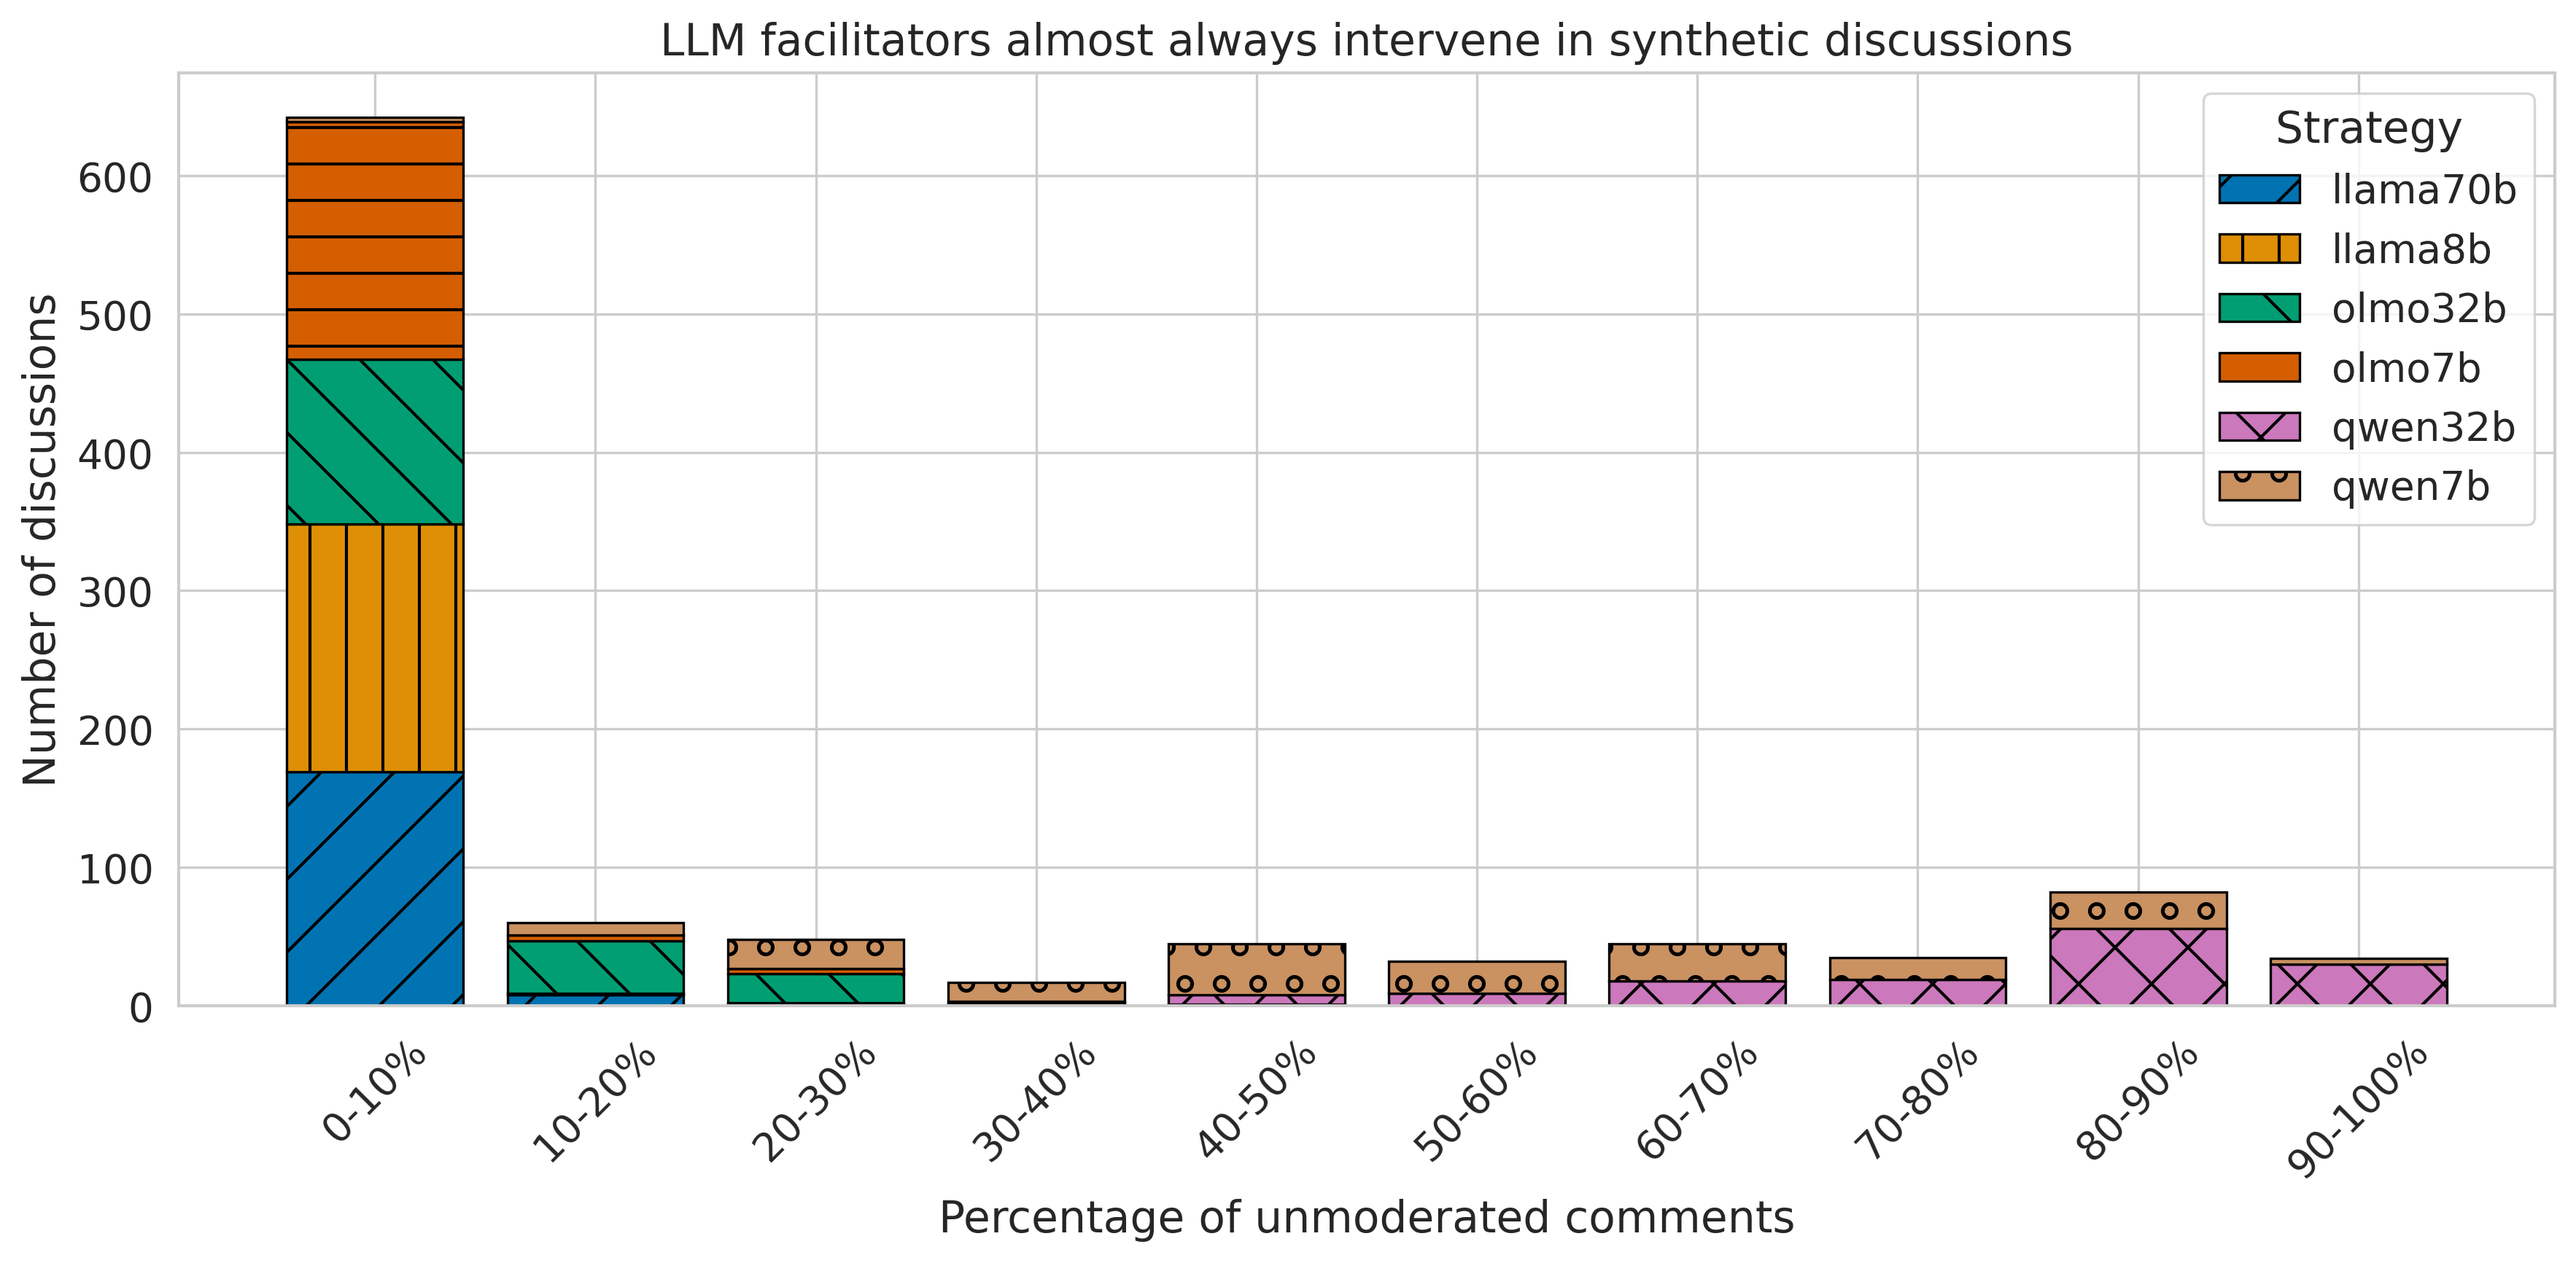
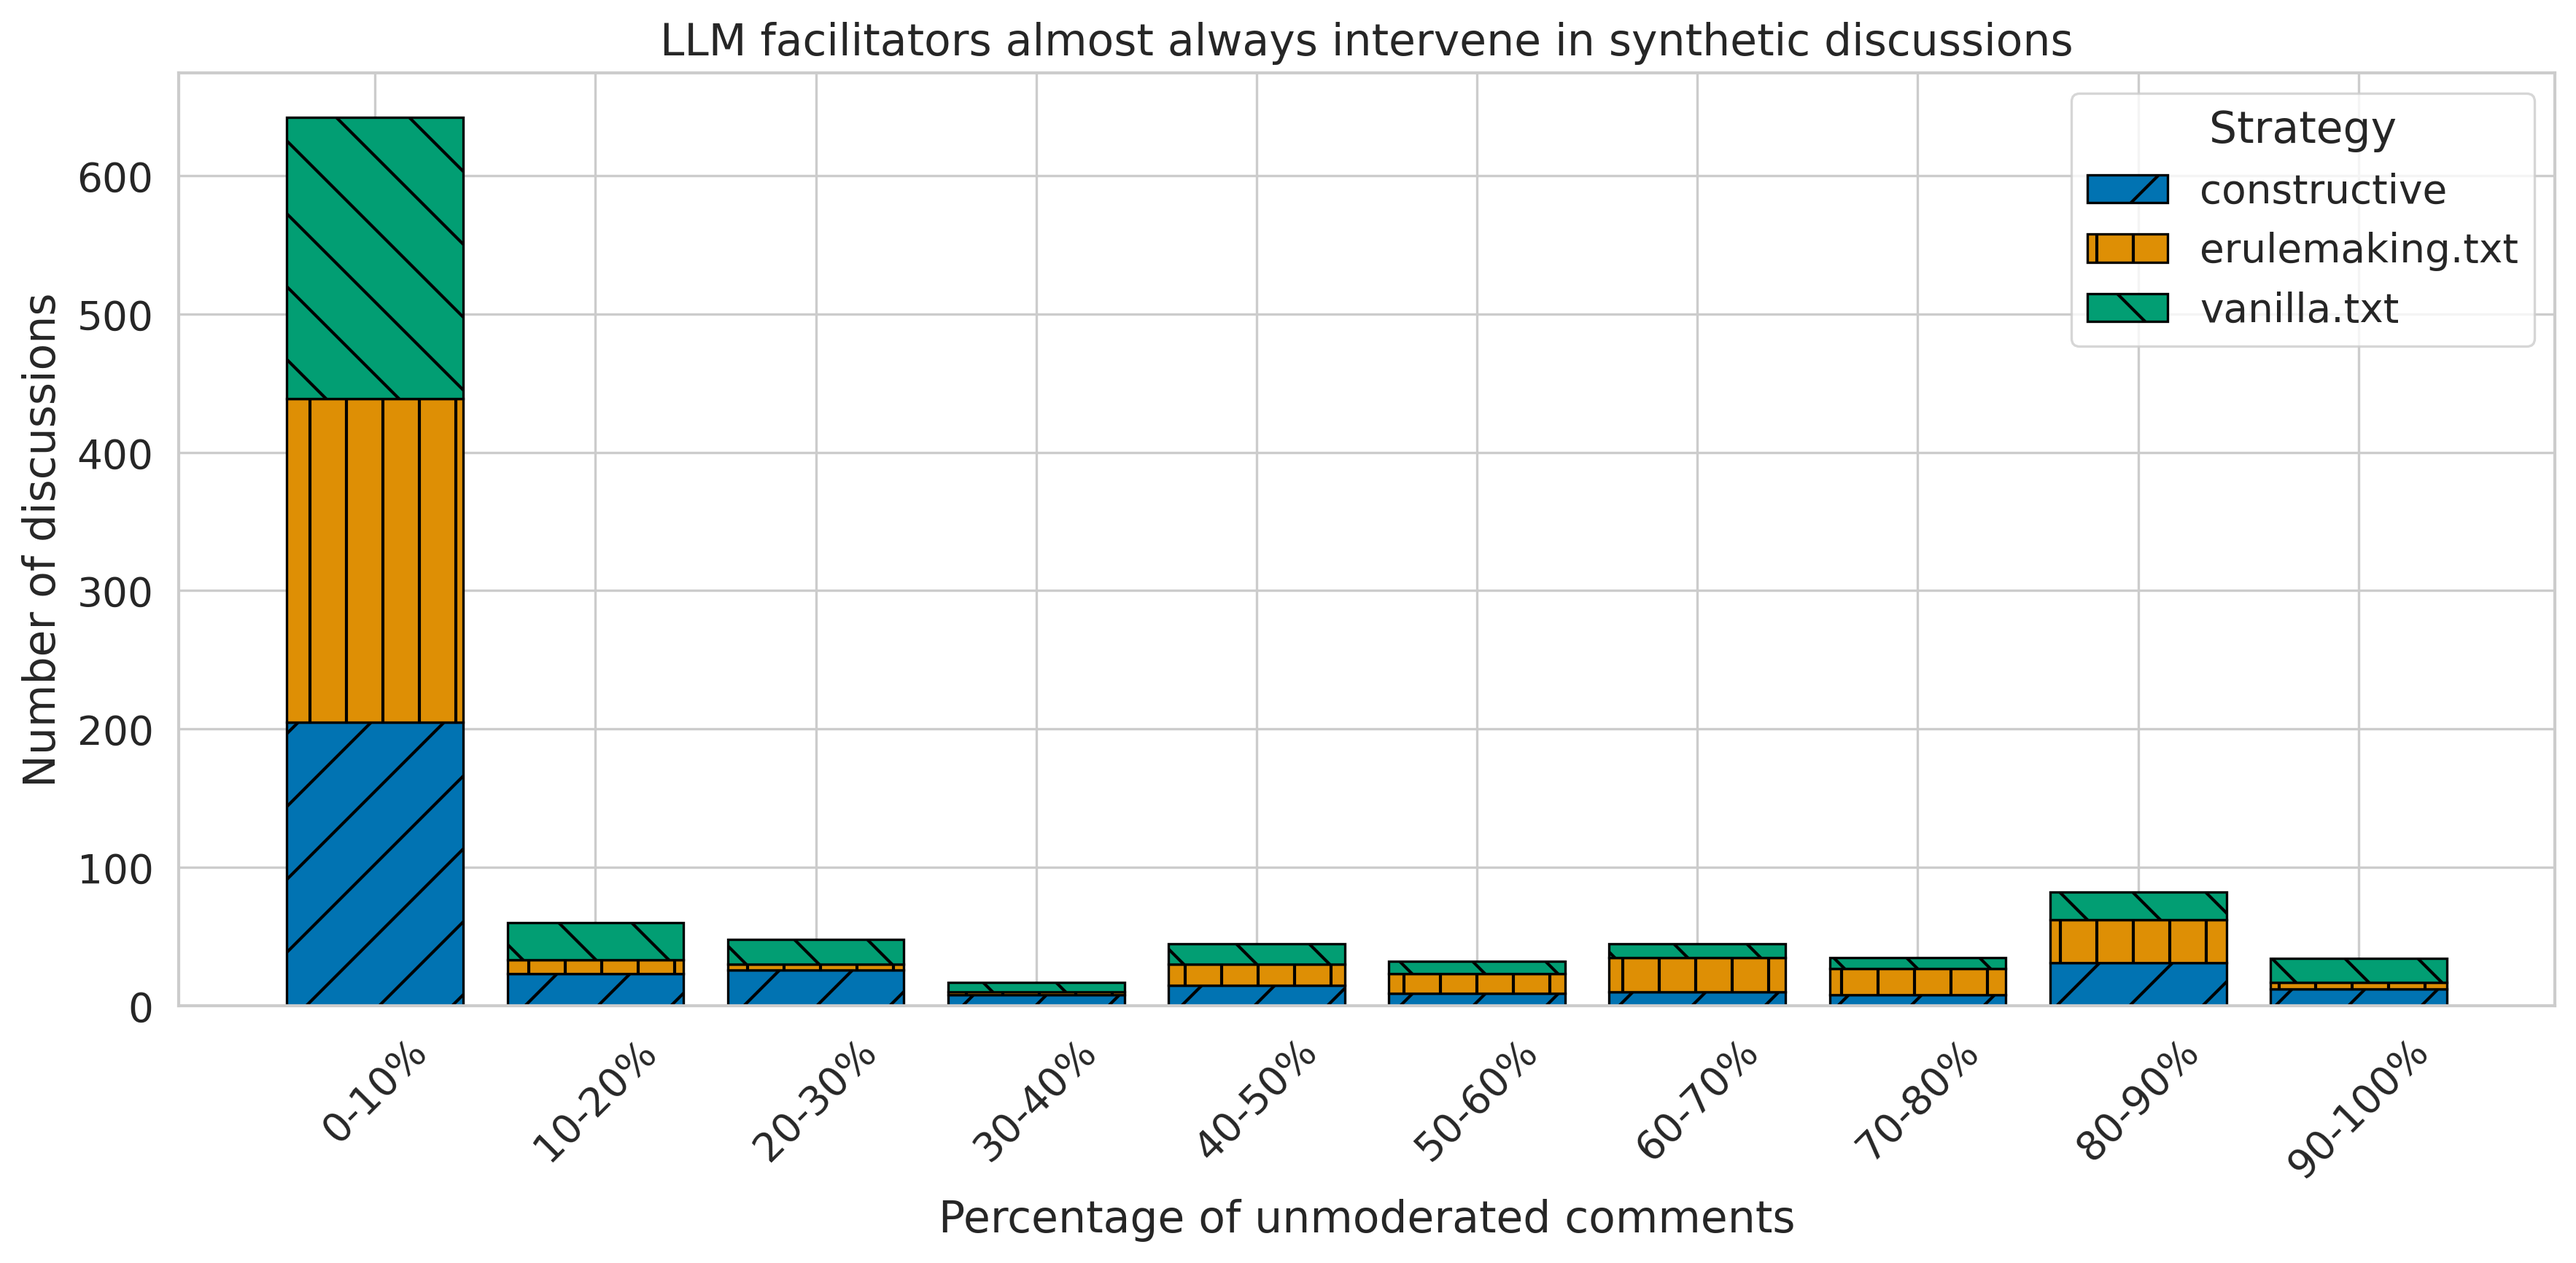
two moderation plots

diff --git a/analysis/moderation.py b/analysis/moderation.py
@@ -39,18 +39,17 @@ def get_intervention_df(df: pd.DataFrame, groupby_col: str) -> pd.DataFrame:
 
     # Map conv_id → model
     groups = (
-        df.groupby("conv_id")[groupby_col]
-        .first()
-        .reindex(mod_total.index)
+        df.groupby("conv_id")[groupby_col].first().reindex(mod_total.index)
     )
 
     # Construct final dataframe
-    return pd.DataFrame({
-        "conv_id": mod_total.index,
-        groupby_col: groups.values,
-        "intervention_pct": intervention_pct.values,
-    }).reset_index(drop=True)
-
+    return pd.DataFrame(
+        {
+            "conv_id": mod_total.index,
+            groupby_col: groups.values,
+            "intervention_pct": intervention_pct.values,
+        }
+    ).reset_index(drop=True)
 
 
 def intervention_plot(intervention_df: pd.DataFrame, groupby_col: str) -> None:
@@ -110,6 +109,18 @@ def intervention_plot(intervention_df: pd.DataFrame, groupby_col: str) -> None:
     plt.tight_layout()
 
 
+def moderation_analysis(
+    df: pd.DataFrame, groupby_col: str, graph_output_path: Path
+) -> None:
+    mod_df = get_intervention_df(df, groupby_col=groupby_col)
+    intervention_plot(
+        intervention_df=mod_df,
+        groupby_col=groupby_col,
+    )
+    tasks.graphs.save_plot(graph_output_path)
+    plt.close()
+
+
 def main(input_csv_path: Path, output_dir: Path):
     sns.set_theme(
         style="whitegrid",
@@ -118,16 +129,16 @@ def main(input_csv_path: Path, output_dir: Path):
         palette="colorblind",
     )
     df = pd.read_csv(input_csv_path)
-    mod_df = get_intervention_df(df, groupby_col="model")
-    print(mod_df.intervention_pct.describe())
-    print(mod_df)
-
-    intervention_plot(
-        intervention_df=mod_df,
+    moderation_analysis(
+        df=df,
         groupby_col="model",
+        graph_output_path=output_dir / "intervention_count.png",
     )
-    tasks.graphs.save_plot(output_dir / "intervention_count.png")
-    plt.close()
+    moderation_analysis(
+        df=df,
+        groupby_col="tag_2",
+        graph_output_path=output_dir / "intervention_count.png",
+    )
 
 
 if __name__ == "__main__":
